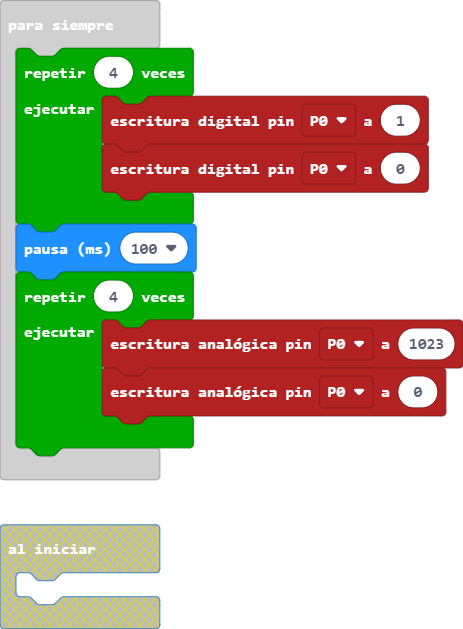
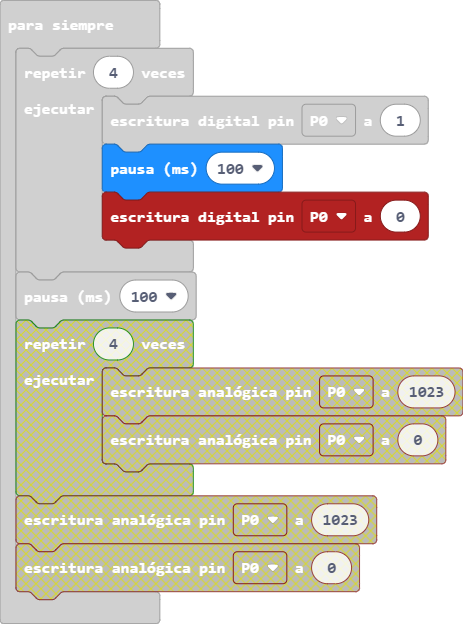
Actualizar main.blocks, main.ts

diff --git a/main.ts b/main.ts
@@ -1,11 +1,8 @@
 basic.forever(function () {
     for (let index = 0; index < 4; index++) {
         pins.digitalWritePin(DigitalPin.P0, 1)
+        basic.pause(100)
         pins.digitalWritePin(DigitalPin.P0, 0)
     }
     basic.pause(100)
-    for (let index = 0; index < 4; index++) {
-        pins.analogWritePin(AnalogPin.P0, 1023)
-        pins.analogWritePin(AnalogPin.P0, 0)
-    }
 })
